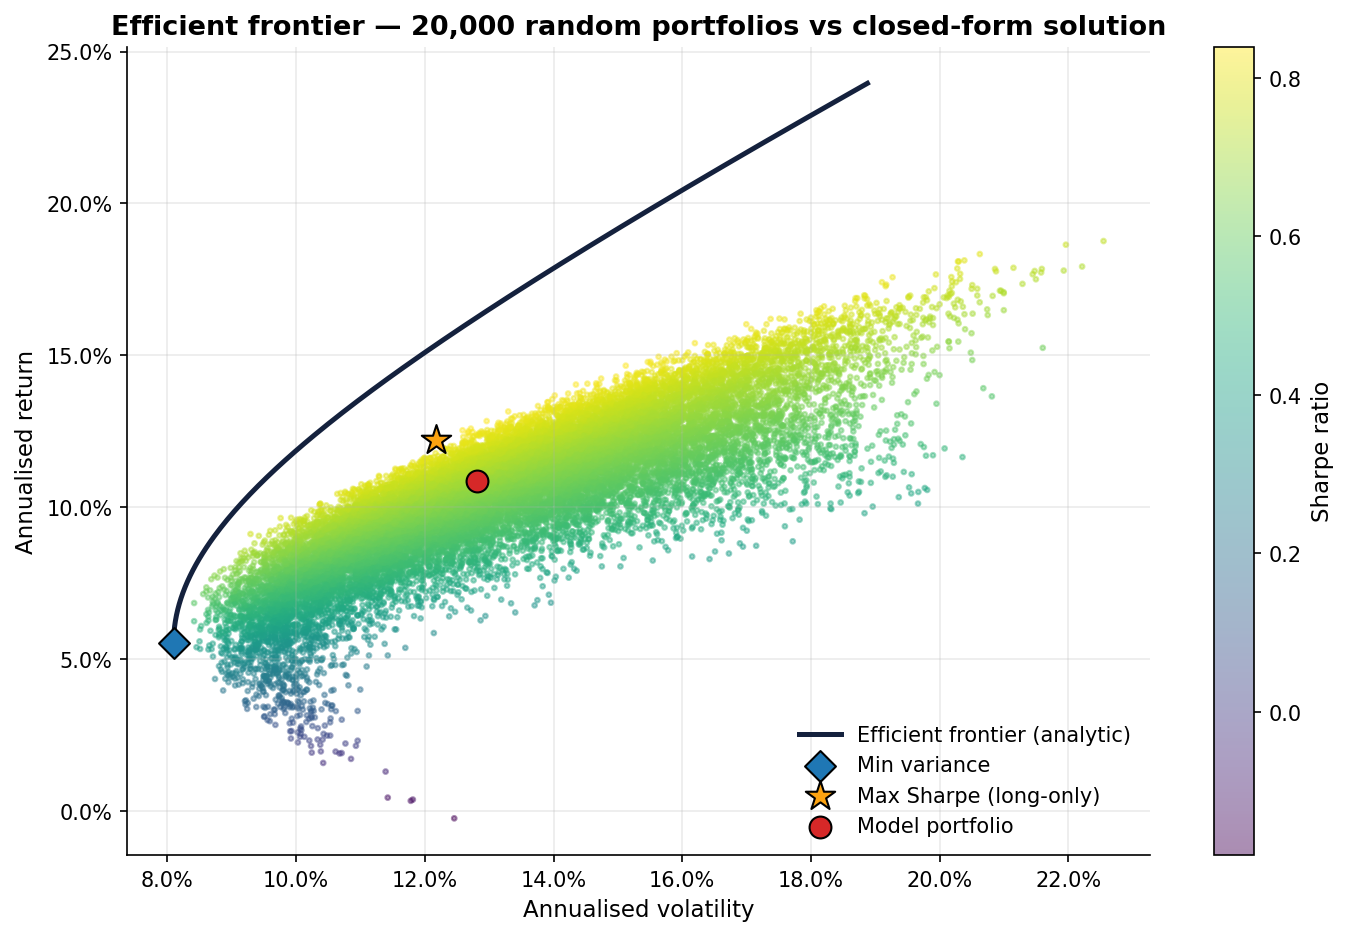
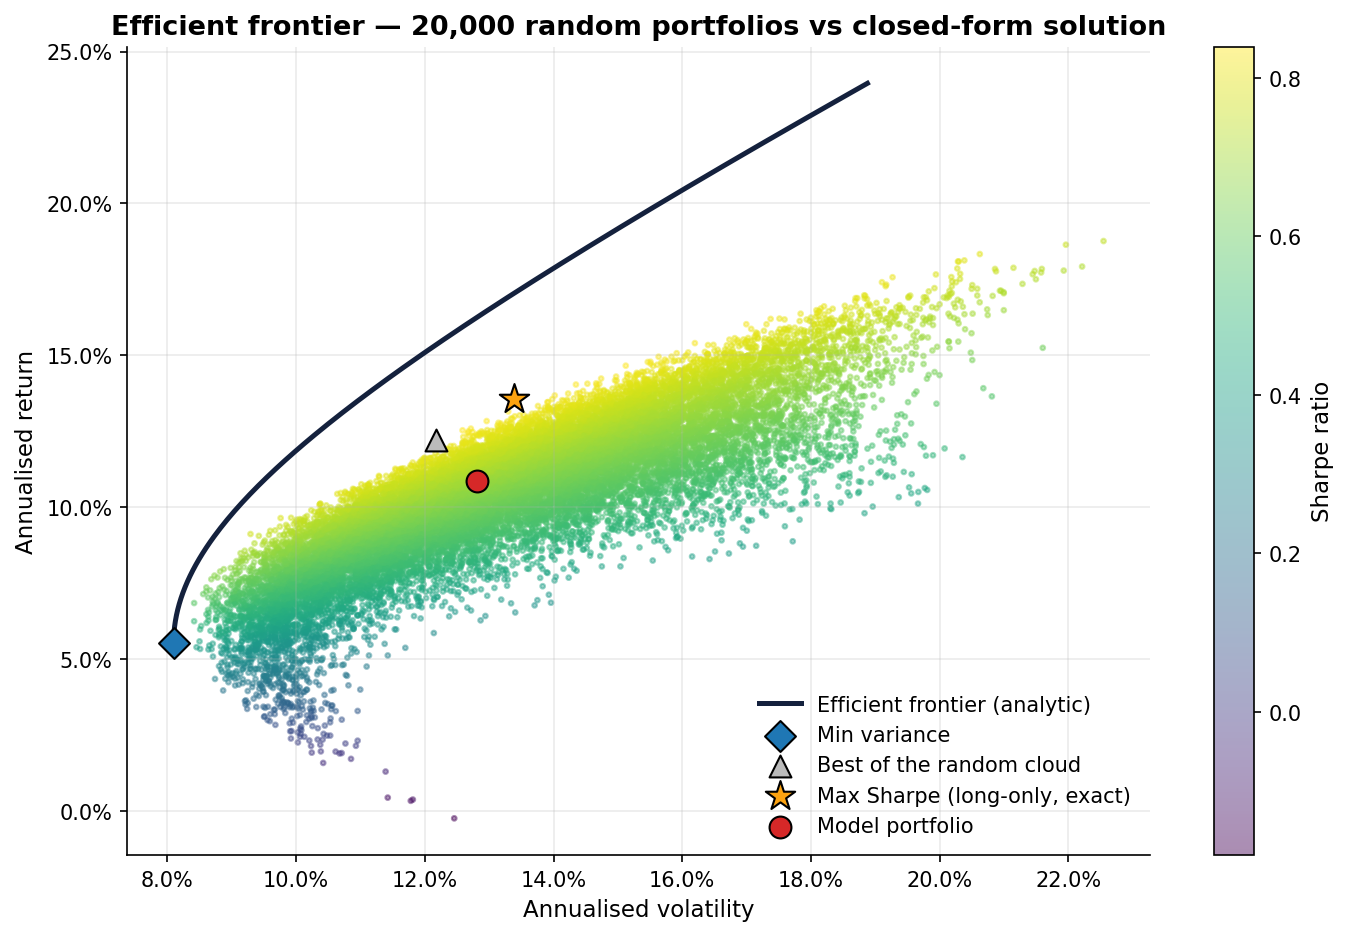
Solve the long-only max-Sharpe portfolio exactly
It used to be the best of 20,000 random portfolios. With 8 assets there are
only 255 subsets, and the long-only optimum is the tangency portfolio of one
of them with all-positive weights, so checking each gives the exact answer
without SciPy. Live data: GLD 58% / SPY 42%, Sharpe 1.08 vs 1.04 sampled.

Changed region(s): [[0.5608, 0.7436, 0.8412, 0.8985], [0.3739, 0.4028, 0.405, 0.4338], [0.3116, 0.4647, 0.3427, 0.4957]]

diff --git a/src/portfolio_risk/optimization.py b/src/portfolio_risk/optimization.py
@@ -8,9 +8,15 @@ Two complementary views, both pure NumPy (no optimiser dependency):
        sigma^2(r*) = (A*r*^2 - 2*B*r* + C) / D
    The global minimum-variance portfolio sits at r* = B/A with var = 1/A.
 
-2. A 20,000-portfolio long-only Monte Carlo cloud (Dirichlet-sampled weights)
-   coloured by Sharpe ratio, from which the best long-only Sharpe portfolio
-   is selected.
+2. Exact long-only max-Sharpe portfolio. On any fixed set of assets the best
+   Sharpe portfolio is the tangency portfolio, w ~ S^-1 (mu - rf). The
+   long-only optimum is the tangency portfolio of some subset whose weights
+   all come out positive (KKT conditions), so trying every subset and keeping
+   the best valid one is exact. 8 assets means 255 subsets; for hundreds of
+   assets you would use a QP solver instead.
+
+3. A 20,000-portfolio long-only Monte Carlo cloud (Dirichlet-sampled weights)
+   coloured by Sharpe ratio, for context on the chart.
 """
 from __future__ import annotations
 
@@ -29,10 +35,13 @@ class FrontierResult:
     cloud: pd.DataFrame            # columns: ret, vol, sharpe (long-only random)
     frontier: pd.DataFrame         # columns: ret, vol (analytic curve)
     min_var_point: tuple[float, float]        # (vol, ret)
-    max_sharpe_point: tuple[float, float]     # (vol, ret) from long-only cloud
+    max_sharpe_point: tuple[float, float]     # (vol, ret), exact long-only optimum
     max_sharpe_weights: pd.Series
+    max_sharpe: float
     current_point: tuple[float, float]        # (vol, ret) of the model portfolio
     current_sharpe: float
+    sampled_max_sharpe_point: tuple[float, float] = (np.nan, np.nan)  # best of the cloud
+    sampled_max_sharpe: float = np.nan
 
 
 def _annualized_inputs(returns: pd.DataFrame) -> tuple[np.ndarray, np.ndarray]:
@@ -64,6 +73,32 @@ def analytic_frontier(returns: pd.DataFrame, n_points: int = 200) -> pd.DataFram
     targets = np.linspace(r_min_var, mu.max() * 1.10, n_points)
     variances = (a * targets**2 - 2.0 * b * targets + c) / d
     return pd.DataFrame({"ret": targets, "vol": np.sqrt(variances)})
+
+
+def tangency_weights(mu: np.ndarray, cov: np.ndarray, risk_free: float) -> np.ndarray:
+    """Unconstrained max-Sharpe weights (shorting allowed), summing to 1."""
+    w = np.linalg.solve(cov, mu - risk_free)
+    return w / w.sum()
+
+
+def max_sharpe_long_only(mu: np.ndarray, cov: np.ndarray, risk_free: float) -> np.ndarray:
+    """Exact long-only max-Sharpe weights by checking every subset of assets."""
+    n = len(mu)
+    excess = mu - risk_free
+    best_sharpe, best_w = -np.inf, None
+    for mask in range(1, 2**n):
+        idx = [i for i in range(n) if mask >> i & 1]
+        sub = np.linalg.solve(cov[np.ix_(idx, idx)], excess[idx])
+        if (sub <= 0).any():  # not a valid long-only candidate
+            continue
+        w = np.zeros(n)
+        w[idx] = sub / sub.sum()
+        sharpe = (w @ excess) / np.sqrt(w @ cov @ w)
+        if sharpe > best_sharpe:
+            best_sharpe, best_w = sharpe, w
+    if best_w is None:
+        raise ValueError("no long-only portfolio beats the risk-free rate")
+    return best_w
 
 
 def random_portfolios(
@@ -98,20 +133,25 @@ def efficient_frontier_analysis(
     a = ones @ inv @ ones
     b = ones @ inv @ mu
 
-    cloud, w_matrix = random_portfolios(returns, n_portfolios, seed, risk_free)
+    cloud, _ = random_portfolios(returns, n_portfolios, seed, risk_free)
     best = int(cloud["sharpe"].idxmax())
-    max_sharpe_weights = pd.Series(w_matrix[best], index=returns.columns).round(4)
+    w_exact = max_sharpe_long_only(mu, cov, risk_free)
+    exact_vol, exact_ret = float(np.sqrt(w_exact @ cov @ w_exact)), float(w_exact @ mu)
+    max_sharpe_weights = pd.Series(w_exact, index=returns.columns).round(4)
 
     cur_vol, cur_ret = portfolio_point(returns, weights)
     return FrontierResult(
         cloud=cloud,
         frontier=analytic_frontier(returns),
         min_var_point=(float(np.sqrt(1.0 / a)), float(b / a)),
-        max_sharpe_point=(
+        max_sharpe_point=(exact_vol, exact_ret),
+        max_sharpe_weights=max_sharpe_weights,
+        max_sharpe=(exact_ret - risk_free) / exact_vol,
+        current_point=(cur_vol, cur_ret),
+        current_sharpe=float((cur_ret - risk_free) / cur_vol),
+        sampled_max_sharpe_point=(
             float(cloud.loc[best, "vol"]),
             float(cloud.loc[best, "ret"]),
         ),
-        max_sharpe_weights=max_sharpe_weights,
-        current_point=(cur_vol, cur_ret),
-        current_sharpe=float((cur_ret - risk_free) / cur_vol),
+        sampled_max_sharpe=float(cloud.loc[best, "sharpe"]),
     )

diff --git a/tests/test_analytics.py b/tests/test_analytics.py
@@ -8,7 +8,9 @@ from portfolio_risk.monte_carlo import simulate_portfolio
 from portfolio_risk.optimization import (
     analytic_frontier,
     efficient_frontier_analysis,
+    max_sharpe_long_only,
     portfolio_point,
+    tangency_weights,
 )
 
 WEIGHTS = {"SPY": 0.4, "QQQ": 0.2, "TLT": 0.2, "GLD": 0.2}
@@ -87,3 +89,24 @@ def test_portfolio_point_vol_matches_series_vol(returns):
     vol, _ = portfolio_point(returns, WEIGHTS)
     port_r = metrics.portfolio_returns(returns, WEIGHTS)
     assert vol == pytest.approx(port_r.std(ddof=1) * np.sqrt(252), rel=1e-9)
+
+
+def test_exact_max_sharpe_matches_hand_calculation():
+    # two independent assets: weights are proportional to excess return / variance
+    mu, cov = np.array([0.10, 0.06]), np.diag([0.04, 0.01])
+    w = max_sharpe_long_only(mu, cov, risk_free=0.02)
+    assert w == pytest.approx([1 / 3, 2 / 3])  # (0.08/0.04, 0.04/0.01) = (2, 4)
+
+
+def test_exact_max_sharpe_drops_assets_below_the_risk_free_rate():
+    mu, cov = np.array([0.10, 0.01]), np.diag([0.04, 0.01])
+    w = max_sharpe_long_only(mu, cov, risk_free=0.02)
+    assert w == pytest.approx([1.0, 0.0])
+    # unconstrained, the same inputs would short the second asset
+    assert tangency_weights(mu, cov, 0.02)[1] < 0
+
+
+def test_exact_max_sharpe_beats_every_random_portfolio(returns):
+    fr = efficient_frontier_analysis(returns, WEIGHTS, n_portfolios=5000, seed=8)
+    assert fr.max_sharpe >= fr.cloud["sharpe"].max() - 1e-12
+    assert fr.max_sharpe >= fr.sampled_max_sharpe

diff --git a/src/portfolio_risk/visualization.py b/src/portfolio_risk/visualization.py
@@ -212,7 +212,8 @@ def plot_efficient_frontier(fr: FrontierResult, path: str | Path) -> Path:
             lw=2.4, label="Efficient frontier (analytic)")
     for (vol, ret), label, marker, color in (
         (fr.min_var_point, "Min variance", "D", "#1f77b4"),
-        (fr.max_sharpe_point, "Max Sharpe (long-only)", "*", ACCENT),
+        (fr.sampled_max_sharpe_point, "Best of the random cloud", "^", "#bbbbbb"),
+        (fr.max_sharpe_point, "Max Sharpe (long-only, exact)", "*", ACCENT),
         (fr.current_point, "Model portfolio", "o", RED),
     ):
         ax.scatter([vol], [ret], marker=marker, s=220 if marker == "*" else 110,

diff --git a/run_analysis.py b/run_analysis.py
@@ -209,6 +209,8 @@ def main() -> None:
     top_weights = frontier.max_sharpe_weights[frontier.max_sharpe_weights > 0.01]
     print(f"  Max-Sharpe (long-only) : "
           f"{{{', '.join(f'{t}: {float(v):.0%}' for t, v in top_weights.items())}}}")
+    print(f"    Sharpe {frontier.max_sharpe:.2f} exact vs {frontier.sampled_max_sharpe:.2f} "
+          f"best of 20,000 random (model portfolio {frontier.current_sharpe:.2f})")
 
     print("\n  VaR backtest (Kupiec test, 5% significance):")
     for row in bt.table.itertuples():
